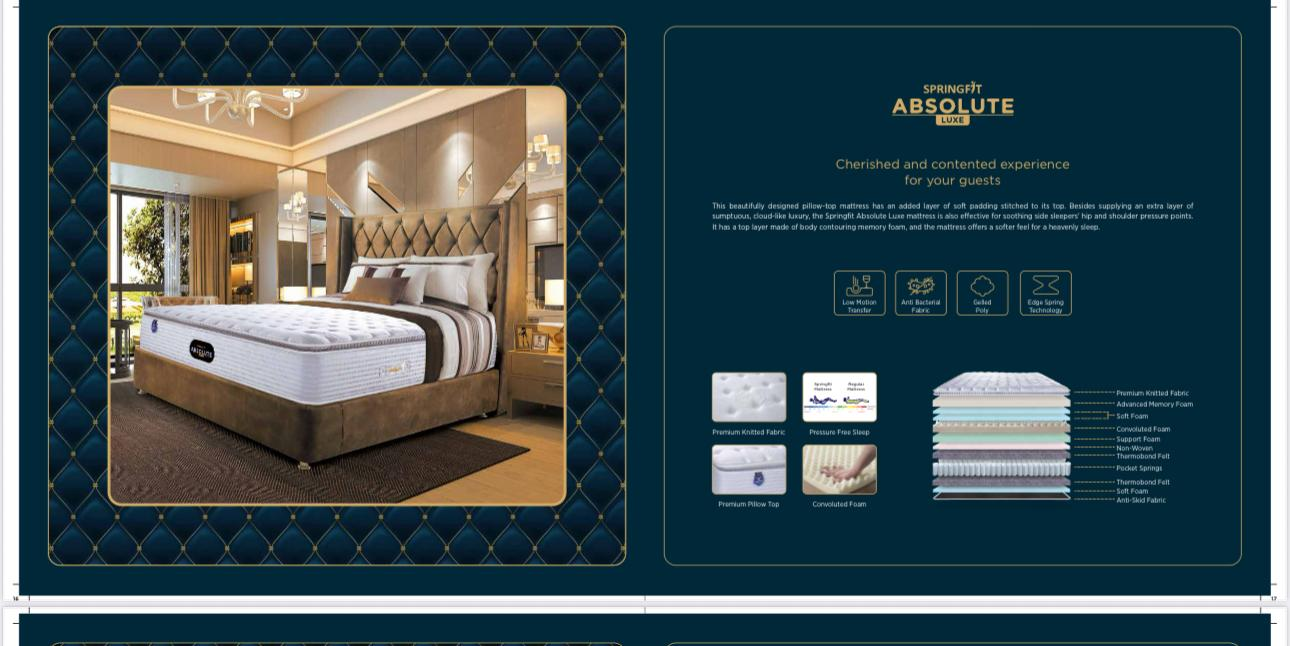
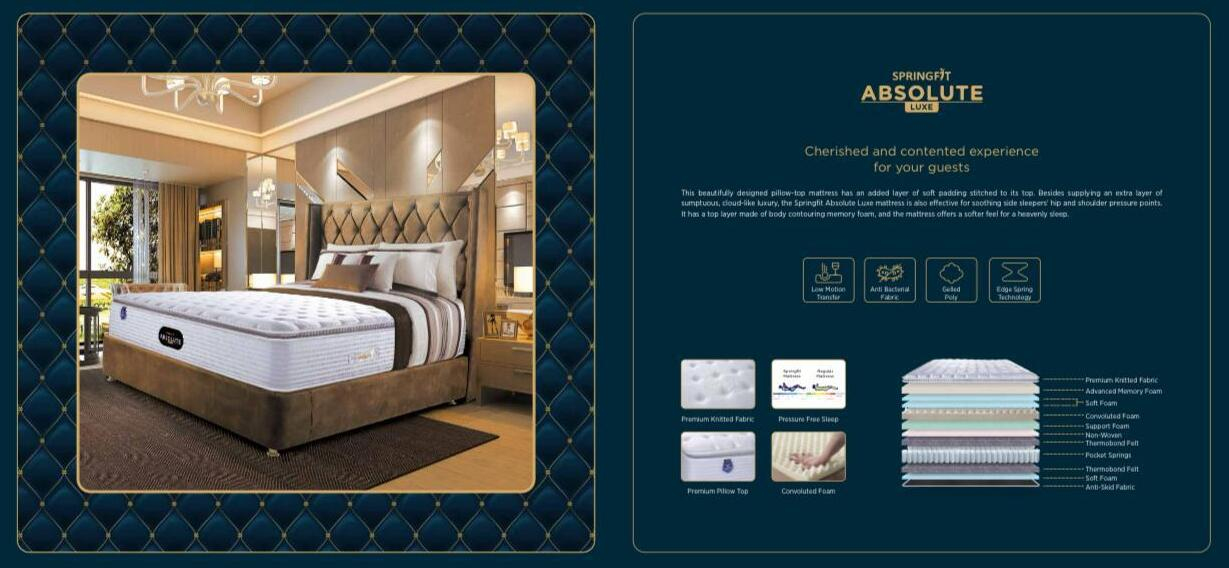
matress-changes

diff --git a/src/components/Accommodations.tsx b/src/components/Accommodations.tsx
@@ -23,9 +23,10 @@ import twoBhkLiving from "./../assets/twobhk-living.jpg";
 import twoBhkDining from "./../assets/twobhk-dining.jpg";
 import twoBhkKitchen from "./../assets/twoBhk-kitchen.jpg";
 
-import sprinFitMatress1 from "./../assets/mattress/spring-mattress-hotel-1000x1000.webp";
+import sprinFitMatress1 from "./../assets/mattress/img1.jpeg";
 import sprinFitMatress2 from "./../assets/mattress/mattresdetail.jpeg";
-import sprinFitMatress3 from "./../assets/mattress/actress.jpeg";
+import sprinFitMatress3 from "./../assets/mattress/actress.jpg";
+import sprinFitMatress4 from "./../assets/mattress/zoomed (1).jpeg";
 
 interface HutProps {
   title: string;
@@ -345,7 +346,7 @@ const Accommodations: React.FC<ContactProps> = ({ setFormData }) => {
                 src={sprinFitMatress3}
                 alt="Springfit Mattress 1"
                 className="rounded-xl shadow-lg w-full h-full object-cover"
-                style={{ maxHeight: "500px" }}
+                style={{ maxHeight: "750px" }}
               />
             </div>
             <div className="grid grid-cols-1 gap-4">
@@ -358,6 +359,11 @@ const Accommodations: React.FC<ContactProps> = ({ setFormData }) => {
                 src={sprinFitMatress2}
                 alt="Springfit Mattress 3"
                 className="rounded-xl shadow-lg w-full h-60 object-cover"
+              />
+               <img
+                src={sprinFitMatress4}
+                alt="Springfit Mattress 3"
+                className="rounded-xl shadow-lg w-full h-60 object-contain bg-[#012839]"
               />
             </div>
           </div>
